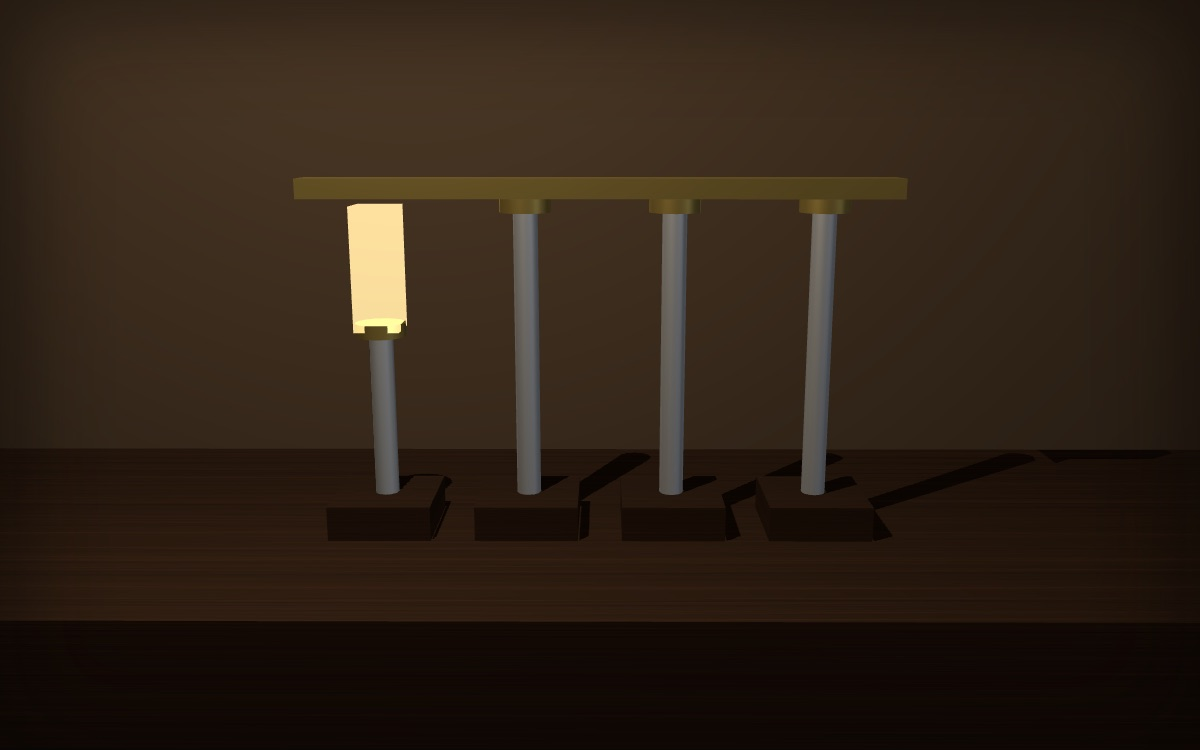
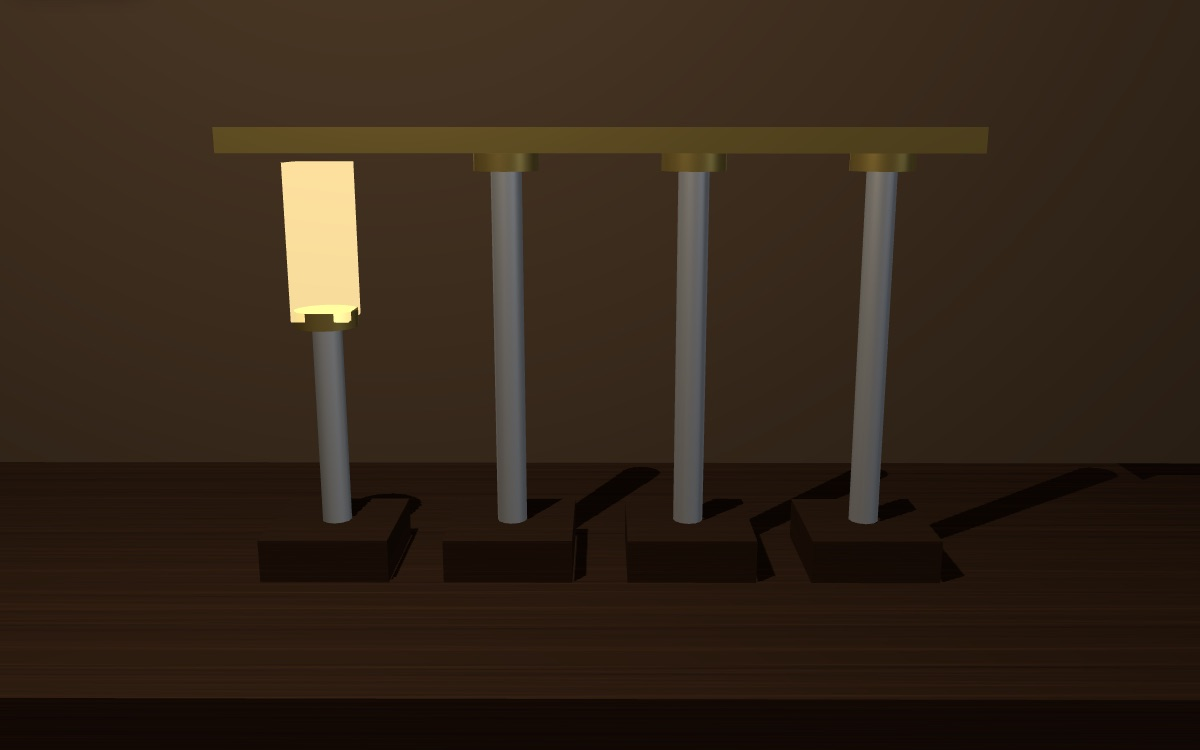
Glossaire : plus-value-relative réécrite selon la charte, direction artistique « la chemise au prix réduit »

diff --git a/glossaire/mondes/plus-value-relative/essai.html b/glossaire/mondes/plus-value-relative/essai.html
@@ -1,49 +1,82 @@
-<!-- L'ESSAI — le corps de /glossaire/plus-value-relative.
-     data-s="4" = quatrième section de Roy (ch. XII–XV), dont le
-     chapitre XII, « La plus-value relative ». -->
+<!-- L'ESSAI : le corps de /glossaire/plus-value-relative.
+     Réécrit en octobre 2026 selon glossaire/mondes/CHARTE.md.
+     data-s="4" = quatrième section de Roy (ch. XII à XV), dont le
+     chapitre XII, « La plus-value relative » ; data-s="2" = deuxième
+     section (ch. VI). Un <q data-s data-q> est une phrase RELEVÉE dans le
+     texte que la liseuse sert : ne pas « corriger » la typographie de Roy
+     (apostrophe ’, trait d'union insécable). -->
 
 <section class="nt-sec" data-etape="fait" id="fait">
-<h2>Obtenir davantage sans allonger d'une minute</h2>
-<p>Supposons la journée fixée par la loi, et fixée pour de bon. La voie de l'allongement est fermée&nbsp;: aucune minute de plus ne sera prise, ni aux bords ni ailleurs. La question devient alors celle-ci, et Marx la pose telle quelle&nbsp;: comment la production de plus-value peut-elle être augmentée sans que la journée s'étende&nbsp;?</p>
-<p>La réponse tient dans une opération de partage. La journée est divisée en deux&nbsp;: le temps où l'ouvrier reproduit la valeur de sa force, et le reste. Si le premier se contracte, le second s'étend d'autant, sans que le total ait bougé d'une seconde. Marx nomme cette forme au moment même où il la distingue de l'autre&nbsp;: c'est <q data-s="4" data-q="la plus-value qui provient au contraire de l’abréviation du temps de travail nécessaire et du changement correspondant dans la grandeur relative des deux parties dont se compose la journée">la plus-value qui provient au contraire de l'abréviation du temps de travail nécessaire et du changement correspondant dans la grandeur relative des deux parties dont se compose la journée</q>.</p>
-<p>La difficulté commence ici, et elle est tout entière dans le mot «&nbsp;abréviation&nbsp;». Comment abrège-t-on le temps nécessaire&nbsp;? Non pas en payant moins — ce serait payer la force de travail au-dessous de sa valeur, et Marx s'interdit cette hypothèse depuis le chapitre VI. Il faut donc que la valeur de la force de travail <i>baisse</i> réellement, c'est-à-dire qu'il coûte moins de travail de l'entretenir. Et cela ne dépend pas du patron qui l'emploie.</p>
+<h2>Comment augmenter la plus-value sans allonger la journée&nbsp;?</h2>
+<p class="nt-lead">En raccourcissant la part de la journée où l'ouvrier ne fait que reproduire la valeur de sa force de travail. La journée garde sa longueur, et la frontière entre ses deux parties se déplace.</p>
+<p>Marx part d'une journée dont les limites sont fixées. Il la représente par une ligne a-c de douze heures, coupée en b&nbsp;: de a à b, dix heures de travail nécessaire, pendant lesquelles l'ouvrier produit l'équivalent de son salaire&nbsp;; de b à c, deux heures de surtravail, qui reviennent au capitaliste. Allonger la ligne au-delà de c, c'est la plus-value absolue, celle de la journée prolongée. Ici la journée est supposée fixe. La seule voie qui reste consiste à faire reculer le point b vers a, de sorte que le surtravail s'étende à l'intérieur des mêmes douze heures.</p>
+<p>Marx donne à cette seconde forme son nom en même temps qu'il la distingue de la première. Il appelle plus-value relative <q data-s="4" data-q="la plus-value qui provient au contraire de l’abréviation du temps de travail nécessaire et du changement correspondant dans la grandeur relative des deux parties dont se compose la journée">la plus-value qui provient au contraire de l’abréviation du temps de travail nécessaire et du changement correspondant dans la grandeur relative des deux parties dont se compose la journée</q>. Le mot «&nbsp;relative&nbsp;» désigne ce rapport entre les deux parties&nbsp;: la plus-value grandit parce que l'autre part diminue.</p>
+<p>Reste à savoir comment on raccourcit le travail nécessaire. Payer l'ouvrier moins que sa force ne vaut produirait le même effet sur le papier, et Marx reconnaît que la pratique joue un grand rôle dans le mouvement réel des salaires. Il l'écarte pourtant de son raisonnement, puisqu'il se place dans le cas <q data-s="4" data-q="où l’on suppose que toutes les marchandises, et par conséquent aussi la force de travail, sont achetées et vendues à leur juste valeur">où l’on suppose que toutes les marchandises, et par conséquent aussi la force de travail, sont achetées et vendues à leur juste valeur</q>. Il faut donc que la valeur de la force de travail baisse réellement, c'est-à-dire que l'entretien de l'ouvrier coûte moins de travail à la société.</p>
+
+<div class="nt-ex">
+<p class="nt-ex-t">L'exemple de Marx</p>
+<p>La force de travail vaut cinq shillings par jour, somme dans laquelle sont incorporées dix heures de travail. Sur une journée de douze heures, il reste deux heures de surtravail, soit une plus-value d'un shilling. Supposons que les subsistances de l'ouvrier, produites jusqu'ici en dix heures, n'en demandent plus que neuf.</p>
+<p>La valeur de sa force de travail tombe d'un dixième, à quatre shillings et six pence. L'ouvrier reçoit toujours sa valeur, et il se nourrit, se loge et s'habille comme avant. Mais neuf heures suffisent désormais à reproduire son salaire&nbsp;: le surtravail passe de deux à trois heures, sans qu'on ait ajouté une minute à la journée.</p>
+</div>
 </section>
 
 <section class="nt-sec" data-etape="ou" id="ou">
-<h2>Où Marx l'établit&nbsp;: au chapitre XII, et pourquoi trois sections suivent</h2>
-<p>Le chapitre XII est court, et il ne contient qu'un raisonnement&nbsp;; mais il commande les trois chapitres suivants, qui sont parmi les plus longs du livre. Coopération, manufacture, machinisme&nbsp;: ces trois cents pages ne sont pas une histoire des techniques placée là par curiosité, ce sont les <i>formes historiques</i> sous lesquelles la plus-value relative a été produite. Le chapitre XII est leur théorème, et les chapitres XIII à XV en sont la démonstration par les faits.</p>
-<p>Cet ordre a une conséquence de lecture qu'il vaut mieux avoir en tête&nbsp;: on ne comprend pas pourquoi Marx s'attarde autant sur l'organisation des ateliers si l'on n'a pas vu que chacune de ces organisations est une manière d'abréger le travail nécessaire. Le chapitre XII est la clé du plan, et il tient en une vingtaine de pages.</p>
-<p>Notons enfin la condition que Marx pose aussitôt, et qui est régulièrement omise&nbsp;: <q data-s="4" data-q="Pour qu’il fasse baisser la valeur de la force de travail, l’accroissement de productivité doit affecter des branches d’industrie dont les produits déterminent la valeur de cette force">Pour qu'il fasse baisser la valeur de la force de travail, l'accroissement de productivité doit affecter des branches d'industrie dont les produits déterminent la valeur de cette force</q>. Une invention qui abaisse le prix des dentelles ou des télescopes n'y change rien. Il faut qu'elle touche ce qui entre dans l'entretien de l'ouvrier, directement ou par les moyens de production de ces choses-là.</p>
+<h2>Pourquoi le progrès doit-il toucher ce que l'ouvrier consomme&nbsp;?</h2>
+<p class="nt-lead">Parce que la valeur de la force de travail se règle sur la valeur des subsistances. Un gain de productivité ne l'abaisse que s'il atteint les branches qui produisent ces subsistances, ou leurs moyens de production.</p>
+<p>Pour que la même masse de subsistances coûte moins de travail, il faut que le travail devienne plus productif. Marx prend un artisan&nbsp;: <q data-s="4" data-q="Un cordonnier peut, par exemple, avec des moyens donnés faire en douze heures une paire de bottes">un cordonnier peut, par exemple, avec des moyens donnés faire en douze heures une paire de bottes</q>. Pour qu'il en fasse deux paires dans le même temps, il lui faut d'autres outils ou une autre méthode. La plus-value absolue se contentait de prolonger le travail tel qu'il était. La plus-value relative exige de transformer la manière même de produire.</p>
+<p>Encore faut-il que la transformation porte au bon endroit. Marx pose aussitôt la condition&nbsp;: <q data-s="4" data-q="Pour qu’il fasse baisser la valeur de la force de travail, l’accroissement de productivité doit affecter des branches d’industrie dont les produits déterminent la valeur de cette force">pour qu’il fasse baisser la valeur de la force de travail, l’accroissement de productivité doit affecter des branches d’industrie dont les produits déterminent la valeur de cette force</q>. Une invention qui rend les dentelles meilleur marché ne change rien au salaire. Celle qui fait baisser le prix du pain, des chaussures ou du drap y touche, comme celle qui rend moins coûteux le blé, le cuir ou les métiers qui servent à les produire.</p>
+<p>Chaque article ne compte d'ailleurs que pour sa part. <q data-s="4" data-q="Des chemises, par exemple, sont un objet de première nécessité, mais il y en a bien d’autres">Des chemises, par exemple, sont un objet de première nécessité, mais il y en a bien d’autres</q>. Si le prix des chemises baisse, l'ouvrier dépense moins pour ses chemises, et pas davantage. La baisse totale de la valeur de sa force de travail est la somme de toutes ces petites baisses, branche par branche.</p>
+<div data-planche="pain"></div>
+<p>Cette condition explique le plan du livre. Après le chapitre XII viennent trois chapitres sur la coopération, la division du travail et la manufacture, puis le machinisme et la grande industrie. Ils décrivent les transformations successives du travail par lesquelles la productivité a été accrue. Le chapitre XII en donne le principe&nbsp;; les trois suivants en suivent l'histoire.</p>
 </section>
 
 <section class="nt-sec" data-etape="distinction" id="distinction">
-<h2>Personne ne la vise, et tout le monde y travaille</h2>
-<p>Voici le point qui fait la beauté du chapitre, et il faut le formuler nettement&nbsp;: aucun capitaliste ne cherche à produire de la plus-value relative. Ce qu'il cherche, c'est un avantage sur ses concurrents, et cet avantage a un nom.</p>
-<p>Qu'un fabricant double la productivité de son atelier. Chaque pièce lui coûte alors moins de travail que la moyenne, et <q data-s="4" data-q="La valeur individuelle de chaque pièce, produite dans ces conditions exceptionnelles, va donc tomber au‑dessous de sa valeur sociale">La valeur individuelle de chaque pièce, produite dans ces conditions exceptionnelles, va donc tomber au‑dessous de sa valeur sociale</q>. Or le marché ne connaît pas les coûts particuliers&nbsp;: <q data-s="4" data-q="valeur d’un article veut dire, non sa valeur individuelle, mais sa valeur sociale">valeur d'un article veut dire, non sa valeur individuelle, mais sa valeur sociale</q>, déterminée par le temps qu'il coûte en moyenne. Vendant au prix commun ce qui lui a coûté moins, il <q data-s="4" data-q="réalise ainsi une plus-value extra">réalise ainsi une plus-value extra</q> — et il la réalise pièce par pièce, sur toute sa production.</p>
-<p>Marx en tire une formule qu'il faut lire deux fois&nbsp;: <q data-s="4" data-q="Il fait pour son compte particulier ce que le capital fait en grand et en général dans la production de la plus-value relative">Il fait pour son compte particulier ce que le capital fait en grand et en général dans la production de la plus-value relative</q>. L'innovateur ne produit pas de la plus-value relative&nbsp;; il produit un surcroît qui lui est propre, et qui a exactement la même origine — un travail nécessaire plus court —, sauf que cette abréviation n'existe que dans son atelier.</p>
-<p>Et ce surcroît est condamné. <q data-s="4" data-q="cette plus-value extra disparaît dès que le nouveau mode de production se généralise">cette plus-value extra disparaît dès que le nouveau mode de production se généralise</q> et que s'évanouit la différence entre la valeur individuelle et la valeur sociale. Ce qui pousse l'innovateur est donc un avantage temporaire&nbsp;; ce qui en résulte, une fois la méthode répandue, est un abaissement général qui ne profite plus à personne en particulier.</p>
+<h2>Qu'est-ce que la plus-value extra de celui qui innove&nbsp;?</h2>
+<p class="nt-lead">C'est l'écart entre ce que sa marchandise lui coûte et ce qu'elle vaut sur le marché. Il l'empoche tant qu'il est seul à produire avec la nouvelle méthode.</p>
+<p>Aucun capitaliste ne se donne pour but d'abaisser la valeur de la force de travail. Chacun cherche un avantage sur ses concurrents. Or le marché ne connaît pas le coût de chacun&nbsp;: <q data-s="4" data-q="valeur d’un article veut dire, non sa valeur individuelle, mais sa valeur sociale">valeur d’un article veut dire, non sa valeur individuelle, mais sa valeur sociale</q>. La valeur sociale, c'est le temps qu'une marchandise coûte en moyenne, dans les conditions ordinaires de la branche. Celui qui produit plus vite que la moyenne vend donc au prix commun une chose qui lui a coûté moins.</p>
+
+<div class="nt-ex">
+<p class="nt-ex-t">L'exemple de Marx, en chiffres</p>
+<p>En douze heures, un atelier ordinaire fabrique douze pièces qui valent un shilling chacune, soit douze pence&nbsp;: six pour la matière, six pour le travail ajouté. Un capitaliste double la productivité&nbsp;: ses ouvriers font vingt-quatre pièces dans la même journée. La matière coûte toujours six pence par pièce, mais le travail ajouté n'en vaut plus que trois. <q data-s="4" data-q="La valeur individuelle de chaque pièce, produite dans ces conditions exceptionnelles, va donc tomber au‑dessous de sa valeur sociale">La valeur individuelle de chaque pièce, produite dans ces conditions exceptionnelles, va donc tomber au‑dessous de sa valeur sociale</q>&nbsp;: neuf pence au lieu de douze.</p>
+<p>Il lui faut cependant écouler deux fois plus de pièces, et il ne trouvera ces acheteurs qu'en baissant un peu son prix. Il vend à dix pence, au-dessous de la valeur sociale et au-dessus de sa valeur individuelle, et gagne un penny de plus par pièce. Il paie toujours cinq shillings par jour à chaque ouvrier, mais la reproduction de ce salaire ne coûte plus que sept heures et demie de travail dans son atelier, au lieu de dix. Sa plus-value passe d'un à trois shillings par journée.</p>
+</div>
+
+<p>Encore faut-il vendre ces pièces, et Marx le note&nbsp;: <q data-s="4" data-q="ses marchandises ne peuvent conquérir une plus large place dans le marché qu’en contractant leurs prix">ses marchandises ne peuvent conquérir une plus large place dans le marché qu’en contractant leurs prix</q>. L'innovateur baisse ses prix pour attirer les acheteurs de ses rivaux. Les grands magasins de la même époque en font le sujet de leurs affiches&nbsp;: la foule court vers la maison qui vend le moins cher.</p>
+<div data-planche="course"></div>
+<p>Ce bénéfice a la même source que la plus-value relative&nbsp;: dans son atelier, le temps nécessaire à reproduire le salaire s'est raccourci. D'où la formule de Marx&nbsp;: <q data-s="4" data-q="Il fait pour son compte particulier ce que le capital fait en grand et en général dans la production de la plus-value relative">il fait pour son compte particulier ce que le capital fait en grand et en général dans la production de la plus-value relative</q>. Mais l'avantage ne dure pas. <q data-s="4" data-q="cette plus-value extra disparaît dès que le nouveau mode de production se généralise">Cette plus-value extra disparaît dès que le nouveau mode de production se généralise</q>, car l'écart entre valeur individuelle et valeur sociale s'évanouit quand tout le monde produit de la même façon.</p>
 </section>
 
 <section class="nt-sec" data-etape="mecanisme" id="mecanisme">
-<h2>La loi coercitive de la concurrence</h2>
-<p>Reste à comprendre pourquoi les autres suivent, puisque suivre les prive du bénéfice qu'ils espéraient et abaisse le prix pour tout le monde. La réponse de Marx est l'une des rares pages du livre où le mot «&nbsp;loi&nbsp;» prend un sens presque physique&nbsp;: <q data-s="4" data-q="La détermination de la valeur par le temps de travail s’impose comme loi au capitaliste employant des procédés perfectionnés, parce qu’elle le force à vendre ses marchandises au‑dessous de leur valeur sociale">La détermination de la valeur par le temps de travail s'impose comme loi au capitaliste employant des procédés perfectionnés, parce qu'elle le force à vendre ses marchandises au‑dessous de leur valeur sociale</q>&nbsp;; et <q data-s="4" data-q="elle s’impose à ses rivaux, comme loi coercitive de la concurrence, en les forçant à adopter le nouveau mode de production">elle s'impose à ses rivaux, comme loi coercitive de la concurrence, en les forçant à adopter le nouveau mode de production</q>.</p>
-<p>Chacun agit donc contre l'intérêt collectif de sa classe en poursuivant rationnellement le sien, et le résultat n'est voulu par personne. Il faut mesurer ce que cette structure a d'inhabituel dans un livre qu'on accuse d'expliquer l'histoire par des intentions&nbsp;: ici, l'effet d'ensemble est précisément ce que nul n'a cherché.</p>
-<p>Le résultat, lui, est net, et il ne se produit qu'à une condition&nbsp;: <q data-s="4" data-q="Le taux général de la plus-value n’est donc affecté en définitive que lorsque l’augmentation de la productivité du travail fait baisser le prix des marchandises comprises dans le cercle des moyens de subsistance">Le taux général de la plus-value n'est donc affecté en définitive que lorsque l'augmentation de la productivité du travail fait baisser le prix des marchandises comprises dans le cercle des moyens de subsistance</q> qui forment des éléments de la valeur de la force de travail. Alors seulement le temps nécessaire recule pour tous — et Marx chiffre&nbsp;: s'il fallait dix heures et qu'il n'en faut plus que six, <q data-s="4" data-q="Quatre heures sont ainsi dégagées et peuvent être annexées au domaine du surtravail">Quatre heures sont ainsi dégagées et peuvent être annexées au domaine du surtravail</q>.</p>
-<p>D'où le rapport, qu'il énonce comme une proportion&nbsp;: <q data-s="4" data-q="La valeur des marchandises est en raison inverse de la productivité du travail d’où elles proviennent">La valeur des marchandises est en raison inverse de la productivité du travail d'où elles proviennent</q>, tandis que <q data-s="4" data-q="la plus-value relative est en raison directe de la productivité du travail">la plus-value relative est en raison directe de la productivité du travail</q>. C'est le ressort le plus constant de tout le mode de production, et Marx le formule d'une phrase&nbsp;: <q data-s="4" data-q="Le capital a donc un penchant incessant et une tendance constante à augmenter la force productive du travail pour baisser le prix des marchandises">Le capital a donc un penchant incessant et une tendance constante à augmenter la force productive du travail pour baisser le prix des marchandises</q>, et par suite celui du travailleur.</p>
+<h2>Pourquoi les concurrents sont-ils obligés de suivre&nbsp;?</h2>
+<p class="nt-lead">Parce que l'innovateur vend moins cher qu'eux et leur prend leurs clients. Pour rester sur le marché, ils doivent adopter sa méthode, et le prix baisse pour tous.</p>
+<p>La loi de la valeur agit ici comme une contrainte, et sur deux personnes à la fois. Marx la décrit d'un côté puis de l'autre&nbsp;: <q data-s="4" data-q="La détermination de la valeur par le temps de travail s’impose comme loi au capitaliste employant des procédés perfectionnés, parce qu’elle le force à vendre ses marchandises au‑dessous de leur valeur sociale">la détermination de la valeur par le temps de travail s’impose comme loi au capitaliste employant des procédés perfectionnés, parce qu’elle le force à vendre ses marchandises au‑dessous de leur valeur sociale</q>&nbsp;; et <q data-s="4" data-q="elle s’impose à ses rivaux, comme loi coercitive de la concurrence, en les forçant à adopter le nouveau mode de production">elle s’impose à ses rivaux, comme loi coercitive de la concurrence, en les forçant à adopter le nouveau mode de production</q>. Chacun poursuit son propre avantage, et le résultat est un abaissement général que personne n'a cherché.</p>
+<p>Marx le dit en toutes lettres. Quand un capitaliste fait baisser le prix des chemises, <q data-s="4" data-q="il n’a pas nécessairement l’intention de faire diminuer par là la valeur de la force de travail">il n’a pas nécessairement l’intention de faire diminuer par là la valeur de la force de travail</q>. L'effet sur les salaires vient au bout de la chaîne, une fois la nouvelle méthode répandue, et seulement dans les branches qui comptent pour l'entretien de l'ouvrier&nbsp;: <q data-s="4" data-q="Le taux général de la plus-value n’est donc affecté en définitive que lorsque l’augmentation de la productivité du travail fait baisser le prix des marchandises comprises dans le cercle des moyens de subsistance">le taux général de la plus-value n’est donc affecté en définitive que lorsque l’augmentation de la productivité du travail fait baisser le prix des marchandises comprises dans le cercle des moyens de subsistance</q>.</p>
+<p>Alors seulement le temps nécessaire recule pour toute la classe ouvrière. Marx chiffre l'effet&nbsp;: s'il fallait dix heures pour reproduire la force de travail et qu'il n'en faut plus que six, <q data-s="4" data-q="Quatre heures sont ainsi dégagées et peuvent être annexées au domaine du surtravail">quatre heures sont ainsi dégagées et peuvent être annexées au domaine du surtravail</q>. Il en tire deux proportions qui vont en sens contraire. D'un côté, <q data-s="4" data-q="La valeur des marchandises est en raison inverse de la productivité du travail d’où elles proviennent">la valeur des marchandises est en raison inverse de la productivité du travail d’où elles proviennent</q>&nbsp;; de l'autre, <q data-s="4" data-q="la plus-value relative est en raison directe de la productivité du travail">la plus-value relative est en raison directe de la productivité du travail</q>. Quand la productivité monte, chaque chose vaut moins, et le capital gagne davantage.</p>
+<p>La conclusion de Marx tient en une phrase&nbsp;: <q data-s="4" data-q="Le capital a donc un penchant incessant et une tendance constante à augmenter la force productive du travail pour baisser le prix des marchandises">le capital a donc un penchant incessant et une tendance constante à augmenter la force productive du travail pour baisser le prix des marchandises</q>, et par suite celui du travailleur. La fin de la phrase dit ce que le début laisse dans l'ombre&nbsp;: le prix qui importe au capital est celui de la force de travail.</p>
 </section>
 
 <section class="nt-sec" data-etape="ouvre" id="ouvre">
-<h2>Ce que cette forme explique, et qui n'est pas mince</h2>
-<p>Trois choses découlent de ce seul mécanisme, et il vaut la peine de les nommer parce qu'on les attribue d'ordinaire à autre chose.</p>
-<p>La première est le caractère incessant de l'innovation. On l'explique volontiers par l'esprit d'entreprise ou par le progrès des sciences&nbsp;; ce chapitre en donne une raison strictement économique et beaucoup plus contraignante — un avantage qui s'évanouit dès qu'il est partagé oblige à en chercher un autre, indéfiniment. La course n'a pas de fin parce que la ligne d'arrivée recule à chaque fois qu'on l'atteint.</p>
-<p>La deuxième est la baisse tendancielle des prix, qui n'est pas un cadeau fait au consommateur mais un sous-produit de la course. Marx le dit sans détour&nbsp;: le capital baisse le prix des marchandises, et par suite celui du travailleur — la seconde clause étant le but, la première le moyen.</p>
-<p>La troisième est la place des trois chapitres qui suivent. Si la plus-value relative exige que le mode de production soit transformé, alors la coopération, la manufacture et la grande industrie ne sont pas des étapes techniques neutres&nbsp;: ce sont les formes successives d'un même mouvement, et le chapitre XV pourra montrer que la machine, moyen d'abréger le travail, sert entre les mains du capital à en prolonger la durée.</p>
+<h2>Quelle énigme ce mécanisme résout-il&nbsp;?</h2>
+<p class="nt-lead">Celle d'un capitaliste qui ne s'intéresse qu'à la valeur d'échange et qui passe pourtant son temps à la faire baisser. La plus-value relative montre qu'il n'y a là aucune contradiction.</p>
+<p>Le capitaliste vend pour gagner de l'argent. On s'attendrait à ce qu'il cherche des marchandises chères. Il fait l'inverse&nbsp;: il réduit sans cesse le travail contenu dans ses produits, donc leur valeur. Marx rappelle que le docteur Quesnay, l'un des fondateurs de l'économie politique, opposait déjà ce paradoxe à ses adversaires. La réponse tient aux deux proportions qu'on vient de voir&nbsp;: les mêmes procédés qui abaissent le prix des marchandises élèvent la plus-value qu'elles contiennent. Dès lors, <q data-s="4" data-q="on n’a plus à se demander pourquoi le capitaliste qui n’a à cœur que la valeur d’échange s’efforce sans cesse de la rabaisser">on n’a plus à se demander pourquoi le capitaliste qui n’a à cœur que la valeur d’échange s’efforce sans cesse de la rabaisser</q>.</p>
+<p>Le même mécanisme explique que l'innovation ne s'arrête jamais. On l'attribue volontiers au génie des inventeurs ou à l'esprit d'entreprise. Le chapitre XII en donne une raison plus contraignante&nbsp;: un avantage qui disparaît dès qu'il se répand oblige à en chercher un autre, puis un autre encore. Celui qui cesse de chercher est rattrapé, puis dépassé.</p>
+<p>Il éclaire enfin ce que devient la baisse des prix. On la présente souvent comme un bienfait pour le consommateur. Marx la décrit comme le moyen d'un autre but&nbsp;: rendre meilleur marché l'entretien de l'ouvrier, pour allonger, dans une journée inchangée, le temps où il travaille pour le capital. Le salaire réel, c'est-à-dire la quantité de choses que l'ouvrier peut acheter, peut rester le même pendant que la part qui lui revient de sa journée diminue.</p>
 </section>
 
 <section class="nt-sec" data-etape="lectures" id="lectures">
-<h2>Deux malentendus, et une question qui reste ouverte</h2>
-<p>Le premier malentendu tient la plus-value relative pour la forme «&nbsp;moderne&nbsp;» et douce, opposée à une forme absolue archaïque et brutale. La chronologie de Marx ne dit pas cela. Les deux formes coexistent, se relaient et se combinent&nbsp;; le chapitre XV montre que le machinisme, en abrégeant le travail nécessaire, a servi dans les faits à allonger la journée, et l'histoire des Factory Acts est celle d'un conflit qui n'a jamais cessé. Ranger les deux formes sur une frise, c'est perdre ce que leur articulation a de plus intéressant.</p>
-<p>Le second croit voir dans le survalu extra une théorie du profit d'innovation, et l'assimile à la rente de l'entrepreneur schumpétérien. La parenté est réelle et vaut d'être notée, mais la différence l'est aussi&nbsp;: chez Marx, ce surcroît n'est pas une récompense de l'innovateur, c'est du travail non payé qui lui échoit parce que le prix se règle sur des conditions moyennes qu'il a cessé de partager. La source n'est pas l'idée neuve&nbsp;: elle est la même que toujours, et l'idée neuve ne fait que déplacer la part qui lui revient.</p>
-<p>Reste une question que le chapitre ne tranche pas et qu'il faut laisser ouverte&nbsp;: rien ne garantit que la baisse du prix des subsistances soit assez rapide, ni que le panier lui-même reste le même. Marx a établi ailleurs que la valeur de la force de travail comporte un élément historique et moral — l'étendue des besoins reconnus. Si cet élément s'élargit à mesure que les subsistances deviennent meilleur marché, le temps nécessaire ne recule pas comme le mécanisme le laisse attendre. Le chapitre XII raisonne à panier constant, et il faut le savoir pour ne pas lui faire dire davantage.</p>
-<p>Nous nous rangeons pour notre part du côté des lectures qui tiennent ce chapitre pour le plus élégant du livre&nbsp;: en une vingtaine de pages, il explique pourquoi un système peut être collectivement contraint à faire ce qu'aucun de ses membres n'a décidé, et il le fait sans supposer chez personne autre chose que la poursuite d'un avantage ordinaire.</p>
+<h2>Comment lire ce concept, et quels contresens éviter&nbsp;?</h2>
+<p class="nt-lead">Le chapitre XII raisonne à panier de subsistances constant, et cette hypothèse a ses limites. Trois lectures courantes se corrigent en relisant le texte.</p>
+<p>La limite tient à la valeur de la force de travail elle-même. Au chapitre VI, Marx avait écrit qu'elle renferme <q data-s="2" data-q="un élément moral et historique">un élément moral et historique</q>&nbsp;: ce qu'une époque et un pays tiennent pour nécessaire à la vie d'un ouvrier. Si ce panier s'élargit à mesure que les subsistances deviennent meilleur marché, le temps nécessaire ne recule pas autant que le mécanisme le laisse attendre. Le chapitre XII raisonne comme si le panier ne bougeait pas, et il faut le savoir pour ne pas lui faire dire davantage. Pour notre part, nous tenons ce chapitre pour l'un des plus clairs du livre&nbsp;: il explique comment un système peut être contraint de faire ce qu'aucun de ses membres n'a décidé, sans supposer chez personne autre chose que la recherche d'un avantage ordinaire.</p>
+<div class="nt-cs">
+<p><span class="nt-cs-k">On lit souvent</span> La plus-value relative serait la forme moderne et douce de l'exploitation, qui aurait remplacé la journée interminable des premiers temps de la fabrique.</p>
+<p><span class="nt-cs-k">Ce que dit le texte</span> Les deux formes coexistent. Marx écrit qu'un gain de productivité n'empêche pas qu'on fasse travailler l'ouvrier douze heures, <q data-s="4" data-q="ou même qu’on prolonge sa journée à dix-huit heures, pour le faire produire 1800 pièces">ou même qu’on prolonge sa journée à dix-huit heures, pour le faire produire 1800 pièces</q>. Au chapitre XV, la machine devient <q data-s="4" data-q="le moyen le plus puissant de prolonger la journée de travail au-delà de toute limite naturelle">le moyen le plus puissant de prolonger la journée de travail au-delà de toute limite naturelle</q>.</p>
+</div>
+<div class="nt-cs">
+<p><span class="nt-cs-k">On lit souvent</span> La plus-value extra serait la récompense de l'innovation, une rémunération de l'idée neuve, comme dans la théorie du profit d'innovation qu'on associe à Joseph Schumpeter.</p>
+<p><span class="nt-cs-k">Ce que dit le texte</span> La parenté existe, mais la source diffère. Chez Marx, <q data-s="4" data-q="même dans ce cas, l’accroissement de la plus-value provient de l’abréviation du temps de travail nécessaire">même dans ce cas, l’accroissement de la plus-value provient de l’abréviation du temps de travail nécessaire</q>. L'innovateur s'approprie davantage de surtravail que ses rivaux, et il le perd dès que sa méthode se répand.</p>
+</div>
+<div class="nt-cs">
+<p><span class="nt-cs-k">On lit souvent</span> Les capitalistes s'entendraient pour faire baisser les salaires en rendant la vie meilleur marché.</p>
+<p><span class="nt-cs-k">Ce que dit le texte</span> Aucun d'eux ne le vise. Marx distingue la tendance du capital pris dans son ensemble des mobiles de chaque capitaliste&nbsp;: <q data-s="4" data-q="Les tendances générales et nécessaires du capital sont à distinguer des formes sous lesquelles elles apparaissent">les tendances générales et nécessaires du capital sont à distinguer des formes sous lesquelles elles apparaissent</q>. Le résultat est collectif, et il passe par la concurrence.</p>
+</div>
 </section>

diff --git a/glossaire/mondes/plus-value-relative/monde.js b/glossaire/mondes/plus-value-relative/monde.js
@@ -161,9 +161,14 @@ window.LM_MONDE = function (canvas) {
     /* UNE SCÈNE VUE À HAUTEUR D'ŒIL EST PLATE : les socles se perdaient
        dans l'ombre et rien ne disait la profondeur. La caméra domine
        légèrement. */
-    var dz = lerp(1.16, 1.08, ss(0, 1, Math.min(1, G / 2.5)));
+    /* DANS LA FIGURE 16/10 (octobre 2026), la scène est vue en paysage :
+       à la distance calée pour la colonne portrait, les jauges n'occupaient
+       que le tiers du cadre. On se rapproche d'un cinquième, visée
+       inchangée (centrée : la figure n'a pas de texte à côté). */
+    var zoom = camera.aspect > 1.2 ? 0.8 : 1;
+    var dz = zoom * lerp(1.16, 1.08, ss(0, 1, Math.min(1, G / 2.5)));
     var camA = V3(0, lerp(0.15, 0.18, ss(1.5, 4.5, G)), 0.02);
-    camera.position.set(camA.x + 0.008 * Math.sin(T * 0.21), camA.y + 0.235 + 0.006 * Math.sin(T * 0.27), camA.z + dz);
+    camera.position.set(camA.x + 0.008 * Math.sin(T * 0.21), camA.y + zoom * 0.235 + 0.006 * Math.sin(T * 0.27), camA.z + dz);
     camera.lookAt(camA);
     render();
   }
